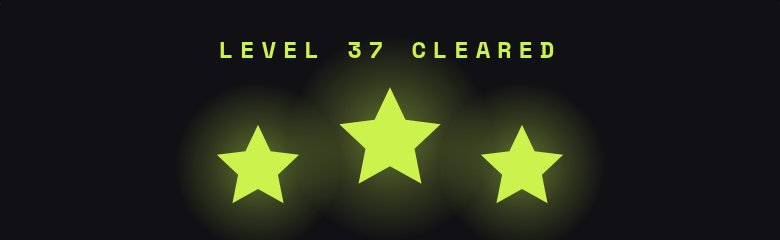
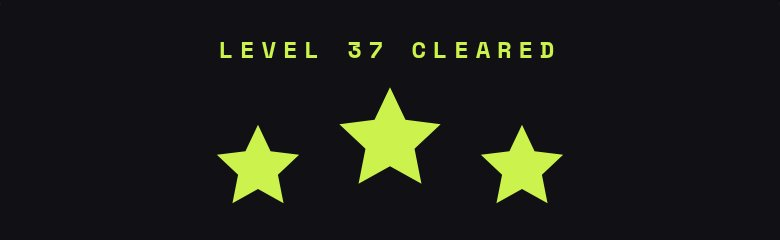
Level cleared stars: plain green, no glow
Claude-Session: https://claude.ai/code/session_01Skn7dUCDkkCZUXfd55KZDb

Changed region(s): [[0.2462, 0.2333, 0.7692, 0.9625]]

diff --git a/app/mobile/src/components/levels/LevelResultCard.tsx b/app/mobile/src/components/levels/LevelResultCard.tsx
@@ -184,7 +184,7 @@ function Cleared({ result }: { result: LevelResult }) {
         {Array.from({ length: MAX_STARS }, (_, i) => (
           <span
             key={i}
-            className={`lr-star ${i === 1 ? "-translate-y-2" : ""} ${i < result.stars && i >= result.previousStars ? "lr-new" : ""}`}
+            className={`lr-star ${i === 1 ? "-translate-y-2" : ""}`}
             style={{ animationDelay: `${0.25 + i * 0.18}s` }}
           >
             <StarIcon filled={i < result.stars} size={i === 1 ? 64 : 52} />
@@ -214,10 +214,6 @@ function Cleared({ result }: { result: LevelResult }) {
       </div>
       <style>{`
         .lr-star { display: inline-flex; animation: lrPop 0.45s cubic-bezier(0.16,1,0.3,1) both; }
-        /* A round halo behind a new star. Not a CSS drop-shadow on the svg:
-           WebKit clips that filter to the svg's box and draws a square. */
-        .lr-new { position: relative; }
-        .lr-new::before { content: ""; position: absolute; inset: -35%; z-index: -1; border-radius: 9999px; background: radial-gradient(circle, rgba(203,242,77,0.45) 0%, rgba(203,242,77,0.18) 38%, transparent 68%); pointer-events: none; }
         @keyframes lrPop { from { transform: scale(0.3); opacity: 0; } to { opacity: 1; } }
         @media (prefers-reduced-motion: reduce) { .lr-star { animation: none; } }
       `}</style>

diff --git a/docs/reviews/2026-09-30-result-polish/README.md b/docs/reviews/2026-09-30-result-polish/README.md
@@ -6,12 +6,12 @@ line are Leeran's screenshots from the live 2.0 app.
 ## Stars on the level cleared card
 
 The glow was a CSS drop-shadow on each star's svg, which WebKit clips to the
-svg's box, so every new star sat in a square. It is now a round halo behind
-the star.
+svg's box, so every new star sat in a square. The glow is gone: plain green
+stars.
 
 | Before | After |
 |--|--|
-| <img src="before-stars.jpg" width="330" alt="Stars in square glow boxes"> | <img src="after-stars.jpg" width="330" alt="Stars with round halos"> |
+| <img src="before-stars.jpg" width="330" alt="Stars in square glow boxes"> | <img src="after-stars.jpg" width="330" alt="Plain green stars"> |
 
 ## A new character
 
